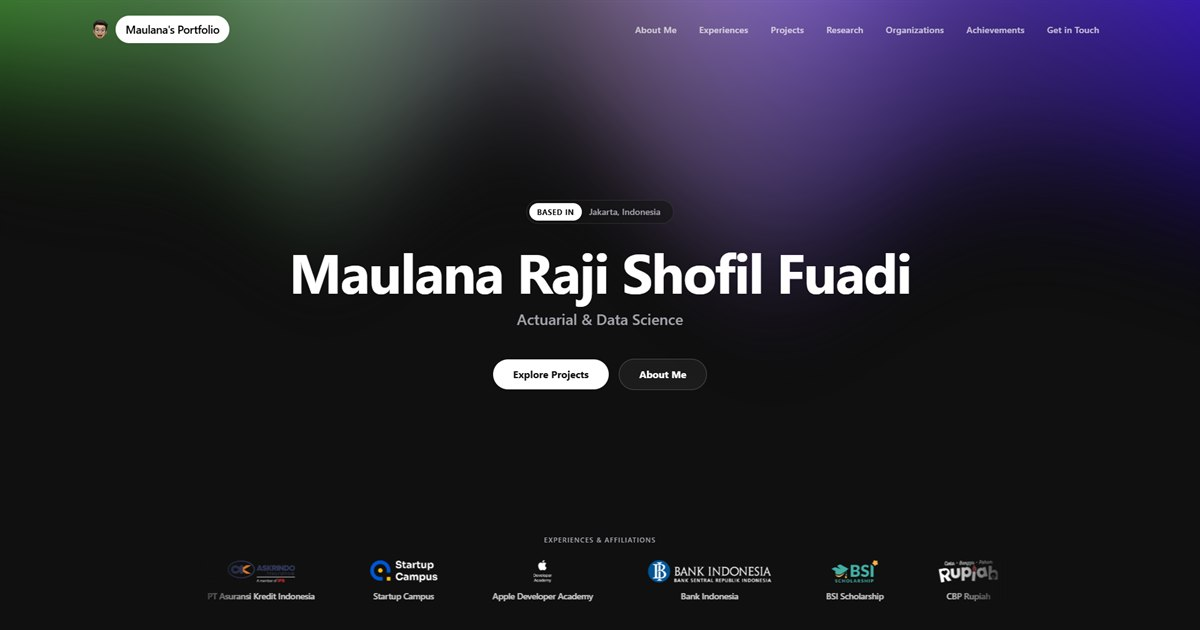
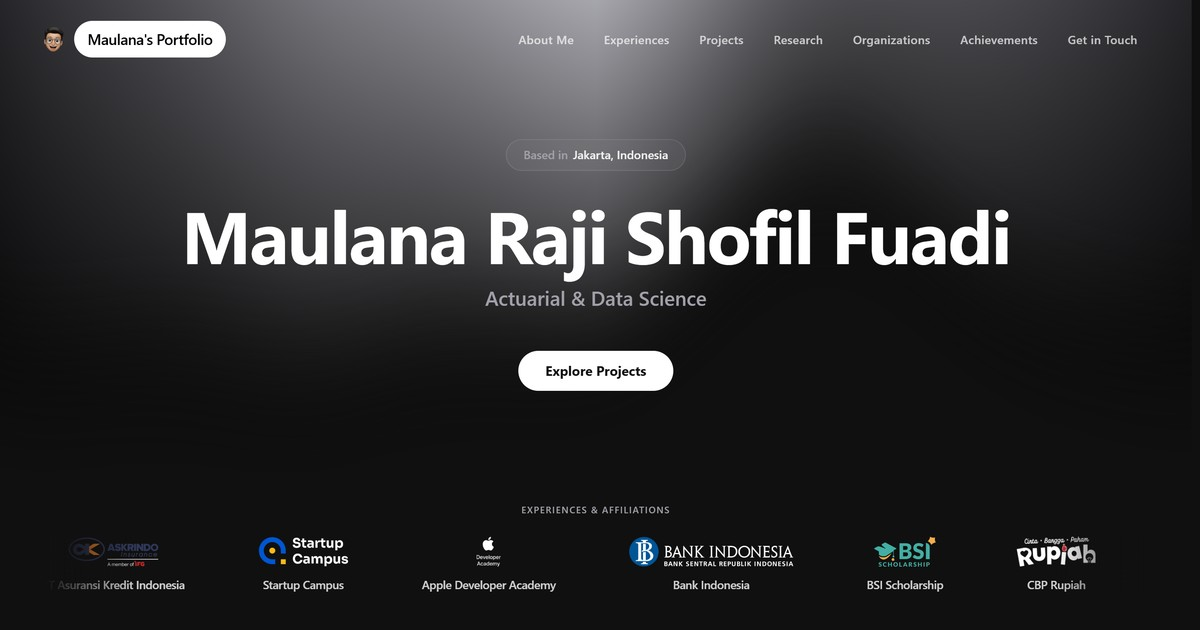
feat(seo): new Open Graph preview with Apple Developer Academy and Bank Indonesia centered
Captured from the current hero at 1440x756, scaled to 1200x630. The ?v=2 query makes chat apps refetch the preview.

diff --git a/app/layout.tsx b/app/layout.tsx
@@ -34,7 +34,7 @@ export const metadata: Metadata = {
     type: "website",
     images: [
       {
-        url: '/og-image.jpg',
+        url: '/og-image.jpg?v=2',
         width: 1200,
         height: 630,
         alt: "Maulana's Portfolio Preview"
@@ -45,7 +45,7 @@ export const metadata: Metadata = {
     card: "summary_large_image",
     title: "Maulana's Portfolio",
     description: "Explore the portfolio of Maulana Raji Shofil Fuadi, an Actuarial Science graduate and Data Science practitioner specializing in AI automation and data-driven insights.",
-    images: ['/og-image.jpg'],
+    images: ['/og-image.jpg?v=2'],
   },
 };
 
